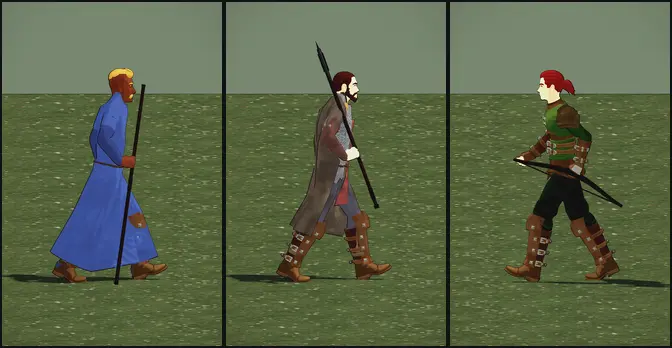
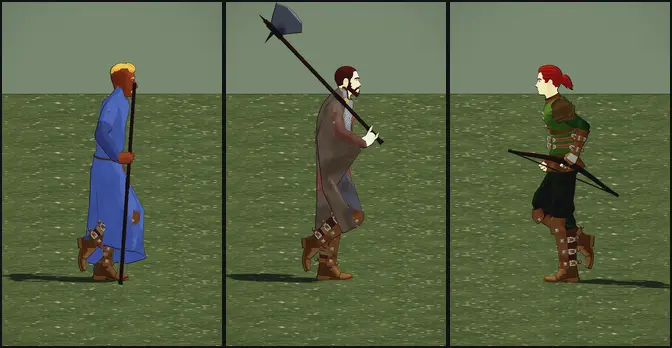
Tom: 417 Runde 2 zum Ansehen
Claude-Session: https://claude.ai/code/session_01Hmoj7A2bL17itQc3EZn1KC

diff --git a/docs/chefsache/ansehen/417-tragart.md b/docs/chefsache/ansehen/417-tragart.md
@@ -1,13 +1,15 @@
-# 417 · Waffen in der Hand beim Gehen und Rennen: Stab, Kriegsaxt, Bogen · Tom · 31.10., 23:45
+# 417 · Waffen in der Hand beim Gehen und Rennen: Stab, Kriegsaxt, Bogen · Tom · 01.11., 01:05 (Runde 2)
 
 ![Stab, Kriegsaxt, Bogen im Gehen von der Seite](../bilder/417-tragart.webp)
 
-Film und drei Blätter (je fünf Ansichten, Gehen und Rennen) per Telegram, am Rechner, noch kein Build.
+Film und drei Blätter (je fünf Ansichten, Gehen und Rennen) per Telegram, am Rechner, noch kein Build. Runde 1 (23:45) gilt nicht mehr.
 
-- **Stab (Magier):** im Gehen Wanderstab in der rechten Faust, sein unteres Ende steht am Boden und wird bei jedem Schritt umgesetzt; im Rennen schräg in der Faust. Nirgends im Körper, nächster Abstand 7,7 cm (Gehen), 4,6 cm (Rennen).
-- **Kriegsaxt (Kämpfer):** geschultert, rechte Faust vor der Brust, Stiel auf der rechten Schulter, Kopf hinten oben, Schneide nach außen. Der Stiel sinkt 0,9 cm in die Schulter ein (liegt auf, schwebt nicht), sonst nirgends im Körper.
-- **Bogen (Schurke):** linke Faust neben der Hüfte, schräg (vorn oben, hinten unten), Sehne vorn. Nirgends im Körper, nächster Abstand 4,9 cm. Senkrecht lief er durch den Unterarm.
-- Technik: die gekaufte Bewegungsbibliothek hat kein Gehen mit Waffe; der tragende Arm wird nach jeder Bewegung an die Waffe gestellt, vom Armschwung bleibt ein Teil. Gemessen am verformten Körper über einen ganzen Umlauf (Test `tragen_417`).
+- **Stab (Magier):** im Gehen Wanderstab in der rechten Faust, sein unteres Ende steht am Boden und wird bei jedem Schritt umgesetzt; im Rennen steiler als in Runde 1 in der Faust, unten etwas nach außen. Nirgends im Körper; nächster Abstand 3,9 cm (Gehen, Schulter), 5,9 cm (Rennen, Becken).
+- **Kriegsaxt (Kämpfer):** geschultert, am Stielende gefasst, die Faust vor der Brust, der Stiel liegt auf der rechten Schulter, das Blatt längs des Körpers mit der Schneide oben. Der Stiel liegt 0,9 cm tief auf der Schulter auf (schwebt nicht), sonst nirgends im Körper. In Runde 1 (in der Mitte gefasst) stieß das untere Ende bei jedem Schritt in den Oberschenkel.
+- **Bogen (Schurke):** linke Faust neben der Hüfte, schräg (vorn oben, hinten unten), im Rennen flacher. Nirgends im Körper; nächster Abstand 5,9 cm (Unterarm).
+- Bei allen dreien schließen sich die Finger jetzt um Griff oder Stiel (in Runde 1 lag die Hand nur auf).
+- Technik: die gekaufte Bewegungsbibliothek hat kein Gehen mit Waffe; der tragende Arm wird nach jeder Bewegung an die Waffe gestellt, vom Armschwung bleibt ein Teil. Gemessen am bewegten Körper über einen ganzen Umlauf (Test `tragen_417`; in Runde 1 lief die Messung versehentlich in einer stehenden Pose).
+- Nicht Teil dieser Probe: Stab ohne Kopf und Bogen dünn sind die bisherigen Modelle; Stiefel durch die Robe, helle Hände.
 - Noch nicht: Schwert, Dolch, Schild (Gürtel und Rücken laut Vorschlag), Fackel und Bogen zugleich (beide links), Innenräume, Wechsel in der Kampfblende.
 
 **Zu sagen:** „passt“ (dann die übrigen Waffen so, und in den nächsten Build) oder was anders sein soll, je Waffe.
